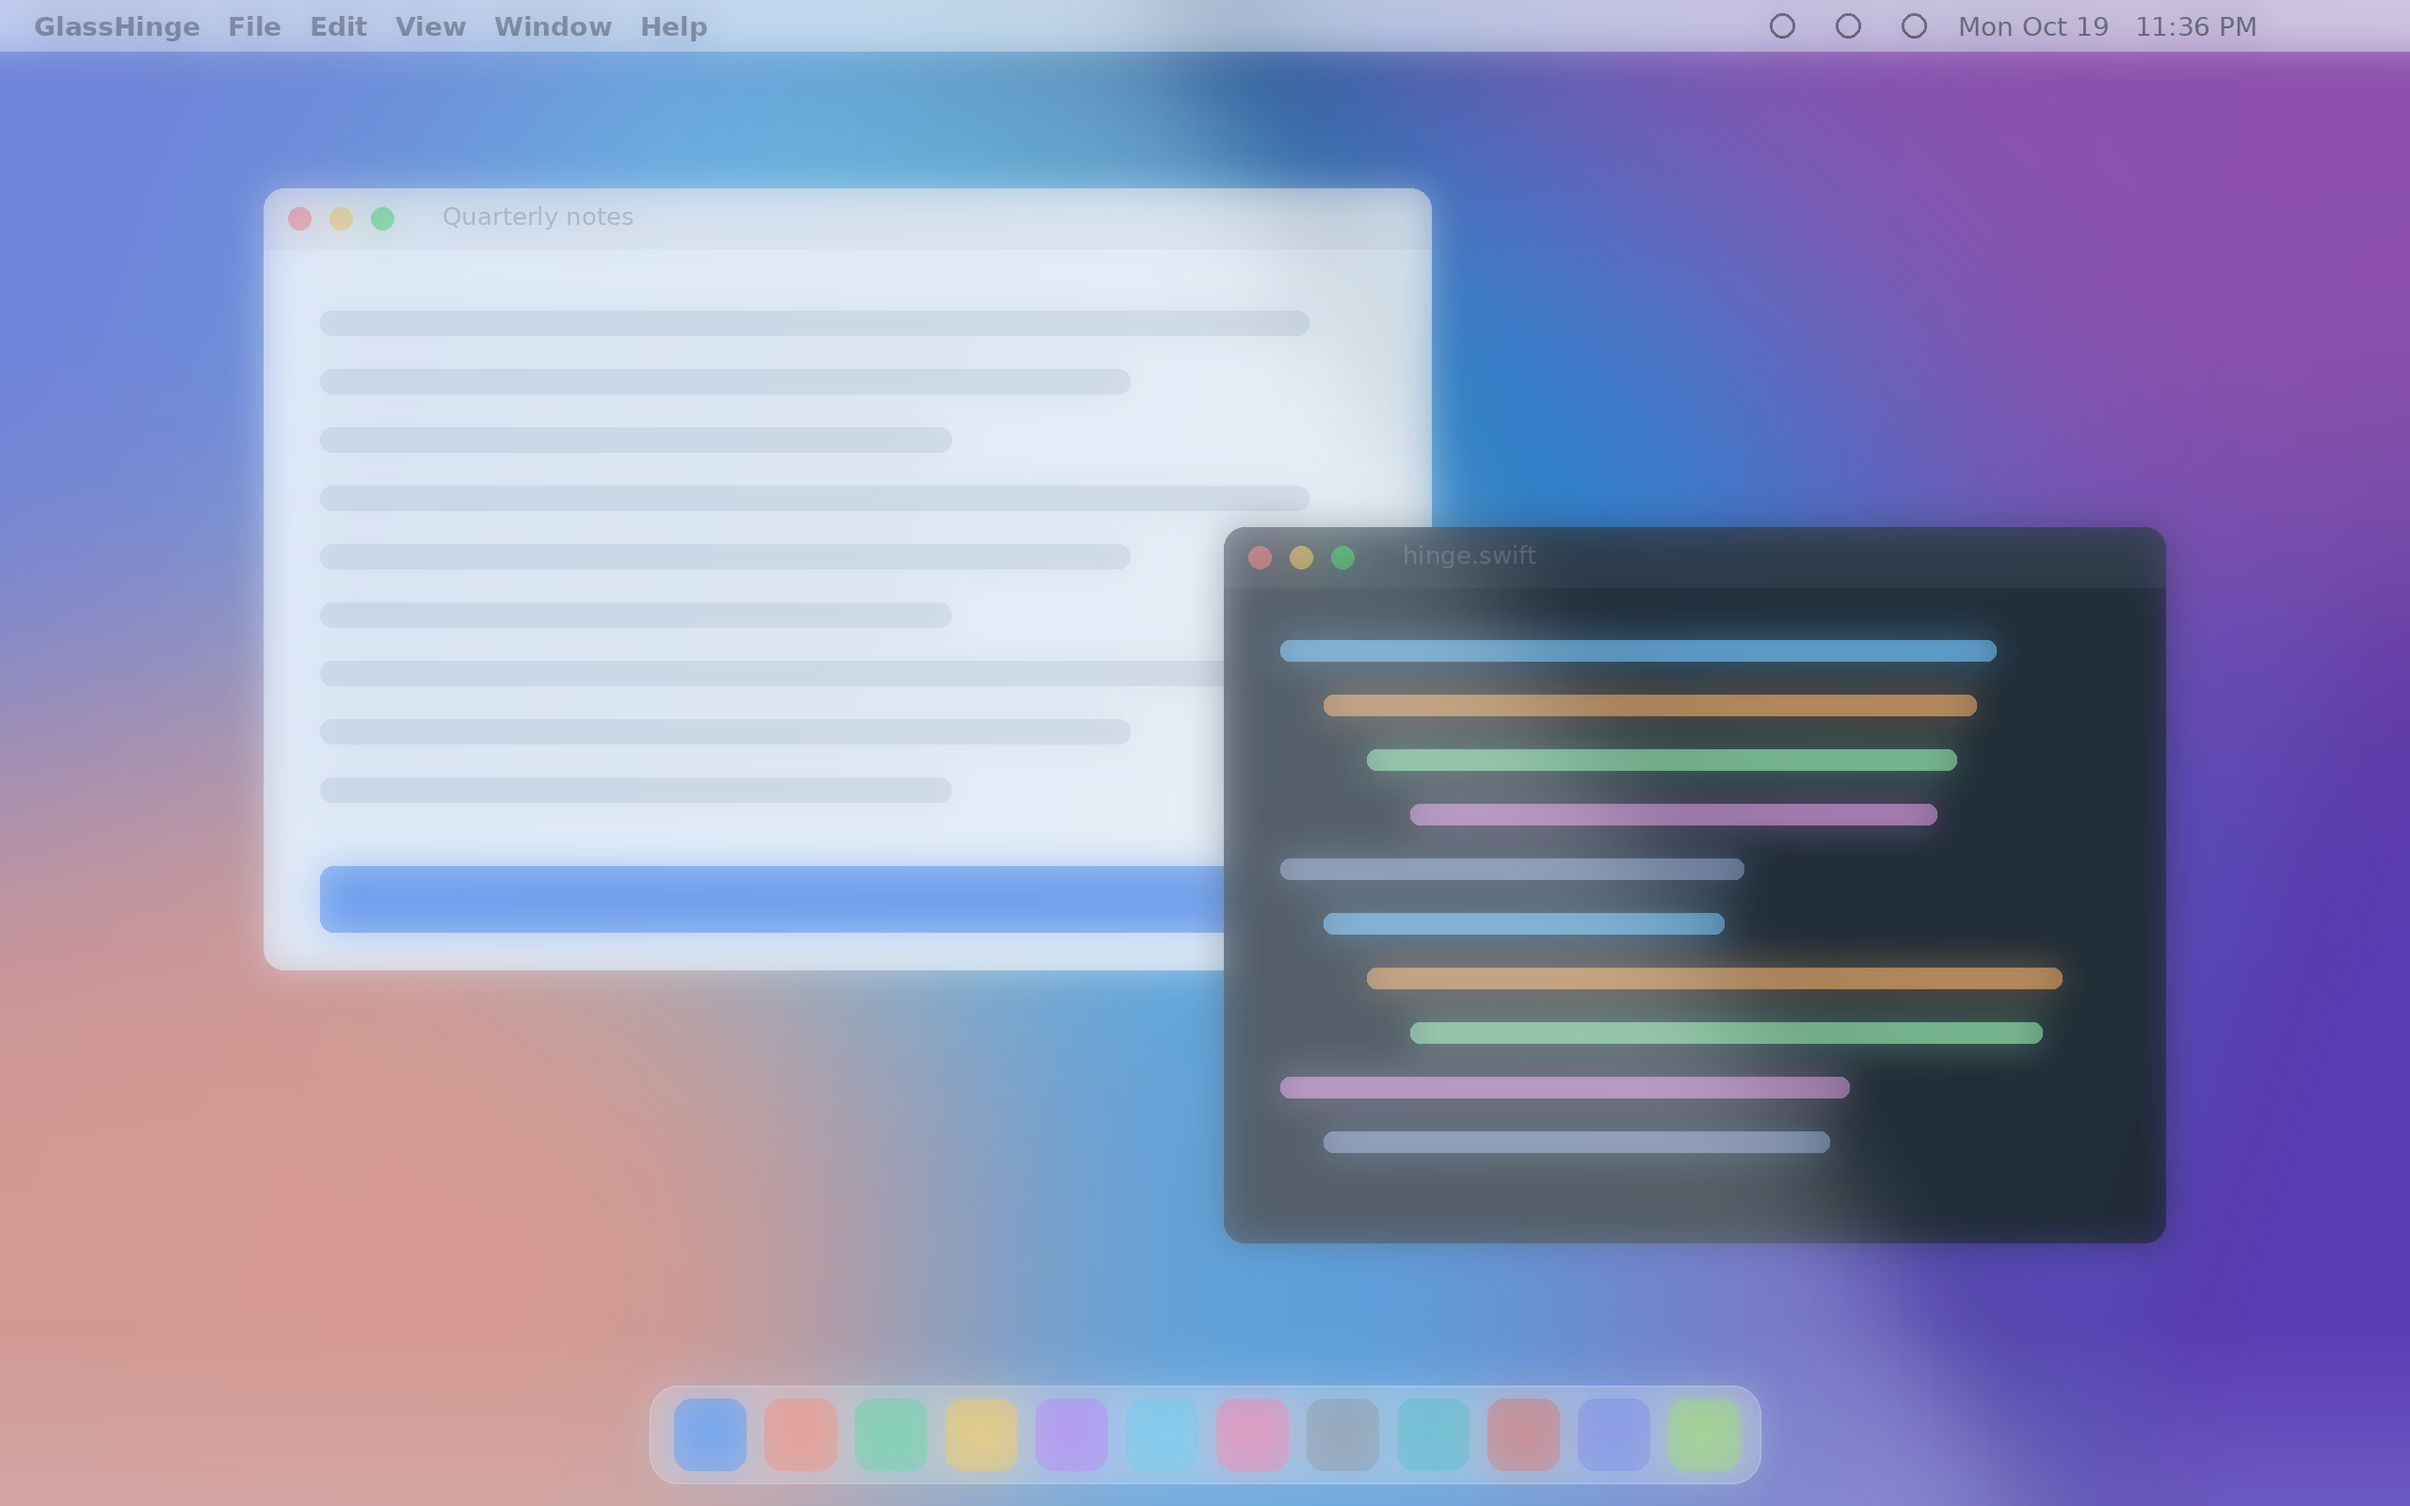
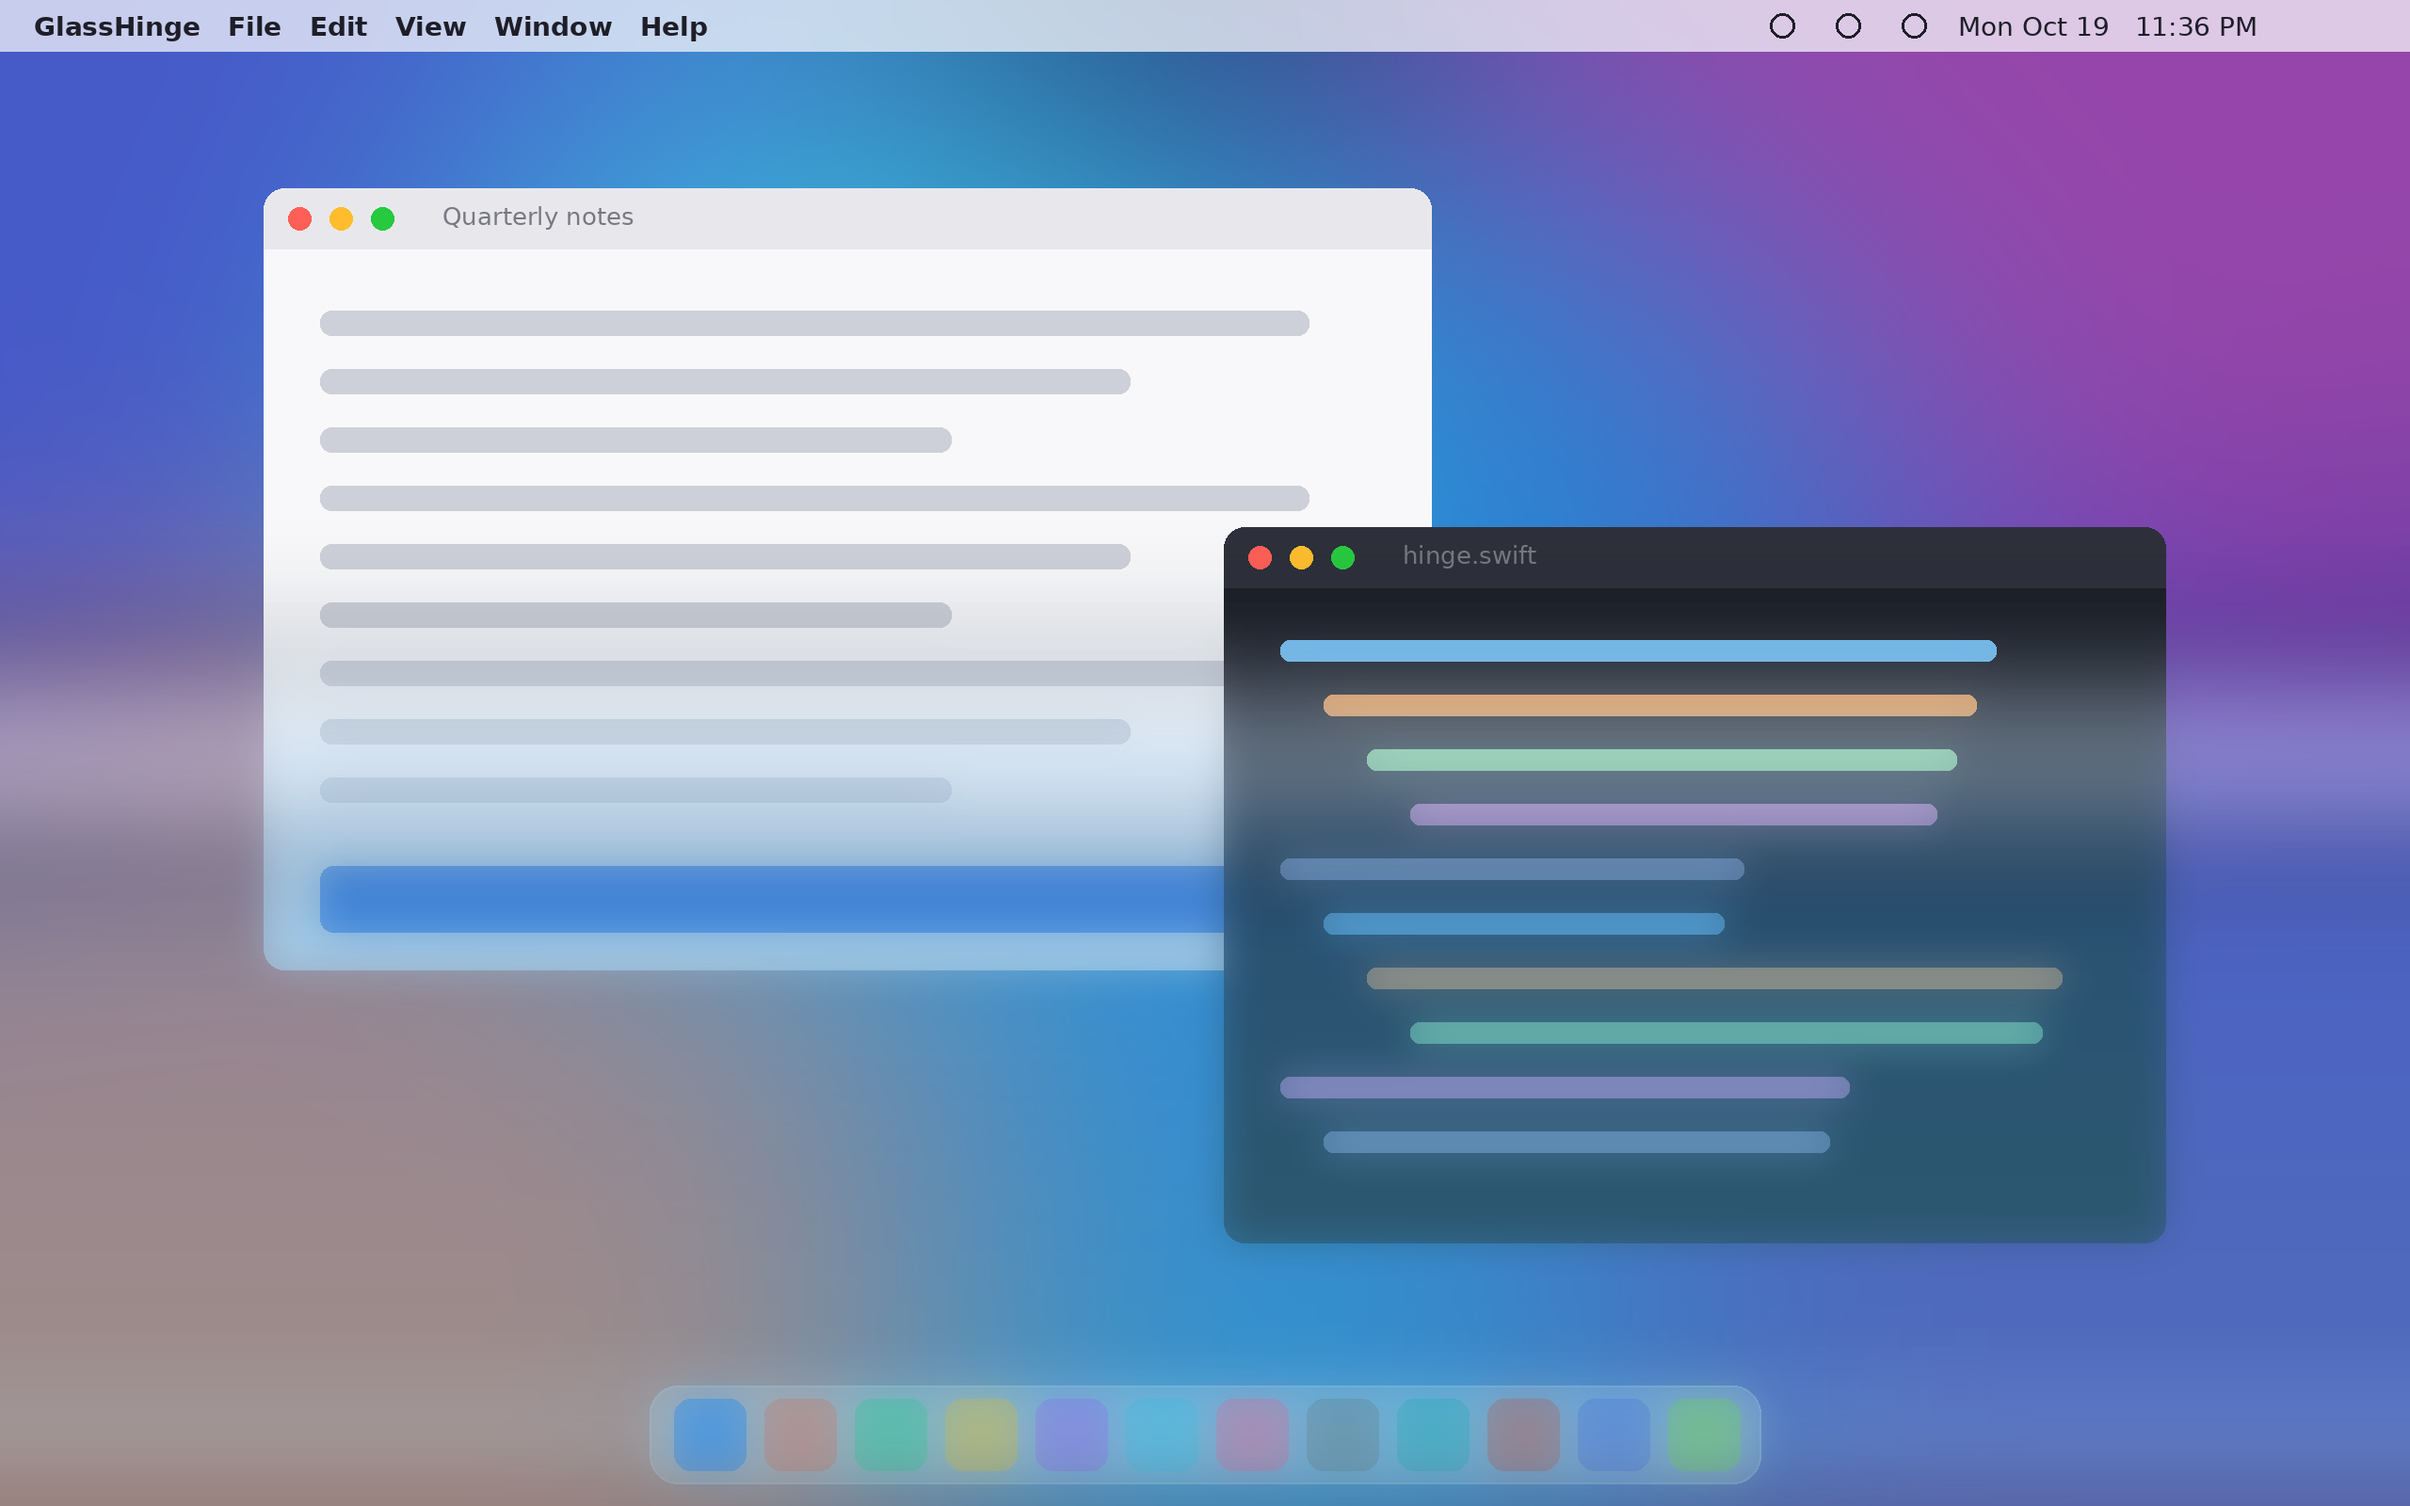
GlassHinge v1.0 — initial commit (menu-bar app, movement-only glass effect, 3 styles, StoreKit Pro scaffold disabled)

diff --git a/GlassHinge/GlassOverlayView.swift b/GlassHinge/GlassOverlayView.swift
@@ -13,17 +13,27 @@
 //  original re-implementation of that idea — no third-party assets, code,
 //  or product names are used anywhere in the app or its store listing.
 //
-//  Rebuilt here with AppKit/SwiftUI primitives only:
+//  Rebuilt here with AppKit/SwiftUI primitives only, and folded the way
+//  a MacBook actually folds: the hinge is the BOTTOM edge of the screen,
+//  so the fold works bottom-up. A fold line starts at the hinge and
+//  rises toward the top as the lid moves. Below the line the desktop is
+//  folded glass (real blur + liquid tint); above it the desktop is still
+//  flat and clear; the crease itself carries a band of light. When the
+//  lid stops, the fold melts back down to the hinge and the screen is
+//  clear again.
 //
 //    * REAL blur of what's underneath — an NSVisualEffectView with
 //      .behindWindow blending, so the user's actual desktop dissolves,
 //      not a fake screenshot. No Screen Recording permission needed.
-//    * A blue/cyan liquid-glass tint whose opacity tracks progress.
-//    * A diagonal "glass shine" band that sweeps across the screen as the
-//      hinge moves — the visible signature of light crossing folding glass.
-//    * A soft vertical refraction streak near the hinge-axis side, plus a
-//      barely-there scale (max +2%) so content feels locked in space
-//      while the "glass" moves over it.
+//      The blur is masked to the folded region below the fold line.
+//    * A blue/cyan liquid-glass tint whose opacity tracks progress,
+//      masked to the same folded region.
+//    * A horizontal crease shine that rides the fold line upward from
+//      the hinge as the lid moves — the visible signature of light
+//      crossing the crease.
+//    * A soft glow along the bottom edge, like light catching the
+//      hinge itself, plus a barely-there scale (max +2%) so content
+//      feels locked in space while the "glass" moves over it.
 //
 //  Everything is a pure function of HingeMonitor.progress, so on sensor
 //  MacBooks the hinge itself scrubs the animation; elsewhere a timed
@@ -40,48 +50,67 @@ struct GlassOverlayView: View {
     @Environment(\.accessibilityReduceMotion) private var reduceMotion
 
     private var style: GlassStyle { GlassStyle(rawValue: styleRaw) ?? .oceanBlue }
-    private var p: Double { monitor.progress * intensity }
+    private var p: Double { min(1, max(0, monitor.progress * intensity)) }
 
     var body: some View {
         GeometryReader { geo in
             let w = geo.size.width
             let h = geo.size.height
+            // The fold line starts at the hinge (bottom edge) and rises
+            // to the top as the lid moves. foldY is its distance from
+            // the top of the screen: h at rest, 0 fully folded.
+            let foldY = h * (1 - p)
+            let band: Double = 90
+            let foldTop = max(0, (foldY - band) / h)
+            let foldBottom = min(1, (foldY + band) / h)
+            // Mask: glass below the fold line, clear above it, with a
+            // soft edge at the crease.
+            let foldMask = LinearGradient(
+                gradient: Gradient(stops: [
+                    .init(color: .clear, location: foldTop),
+                    .init(color: .white, location: foldBottom)
+                ]),
+                startPoint: .top,
+                endPoint: .bottom
+            )
             ZStack {
-                // 1. Real behind-window blur (the dissolve).
+                // 1. Real behind-window blur (the dissolve), folded up
+                //    from the hinge.
                 VisualEffectBlur(material: style.material, blendingMode: .behindWindow)
                     .opacity(p)
+                    .mask(foldMask)
                     .ignoresSafeArea()
 
-                // 2. Liquid-glass tint.
+                // 2. Liquid-glass tint, same fold.
                 LinearGradient(
                     colors: style.tintColors,
-                    startPoint: .topLeading,
-                    endPoint: .bottomTrailing
+                    startPoint: .top,
+                    endPoint: .bottom
                 )
                 .opacity(p * style.tintOpacity)
+                .mask(foldMask)
                 .ignoresSafeArea()
 
-                // 3. Diagonal glass shine sweeping with the hinge.
+                // 3. Crease shine — a horizontal band of light riding
+                //    the fold line as it rises from the hinge.
                 if !reduceMotion {
                     Rectangle()
                         .fill(
                             LinearGradient(
-                                colors: [.clear, .white.opacity(0.55), .clear],
-                                startPoint: .leading,
-                                endPoint: .trailing
+                                colors: [.clear, .white.opacity(0.6), .clear],
+                                startPoint: .top,
+                                endPoint: .bottom
                             )
                         )
-                        .frame(width: w * 0.45, height: h * 1.6)
-                        .rotationEffect(.degrees(18))
-                        .blur(radius: 30)
-                        .offset(x: -w * 0.8 + (w * 1.6 * p))
+                        .frame(width: w, height: 140)
+                        .blur(radius: 24)
+                        .offset(y: foldY - h / 2)
                         .opacity(p)
                         .ignoresSafeArea()
                 }
 
-                // 4. Edge refraction — brighter line low on the screen,
-                //    like light catching the bottom edge of folding glass
-                //    near the MacBook hinge.
+                // 4. Hinge glow — light catching the bottom edge of the
+                //    folding glass at the MacBook hinge.
                 VStack {
                     Spacer()
                     Rectangle()

diff --git a/screenshots/make_mocks.py b/screenshots/make_mocks.py
@@ -1,11 +1,13 @@
 #!/usr/bin/env python3
 """Mock App Store screenshots for GlassHinge (2560x1600).
 
-Faithful mocks of the shipped design: a desktop that gets a REAL Gaussian
-blur blend + blue liquid-glass tint + diagonal shine sweep + bottom hinge
-glow, all driven by one progress value — the same recipe as
-GlassOverlayView.swift. UI shots mirror SettingsView / the menu-bar popover.
-These are mocks for review/marketing, not captures from a running Mac.
+Faithful mocks of the shipped design: a desktop that folds bottom-up
+from the hinge — a fold line rises from the bottom edge, the desktop
+below it dissolves into real Gaussian blur + blue liquid-glass tint, a
+band of light rides the crease, and a glow sits on the hinge — all
+driven by one progress value, the same recipe as GlassOverlayView.swift.
+UI shots mirror SettingsView / the menu-bar popover. These are mocks for
+review/marketing, not captures from a running Mac.
 """
 from PIL import Image, ImageDraw, ImageFilter, ImageFont
 import pathlib, math
@@ -80,27 +82,38 @@ def desktop():
 
 # ---------------------------------------------------------------- effect
 def apply_effect(base, p):
-    """Same recipe as GlassOverlayView: blur blend, tint, shine sweep, hinge glow."""
+    """Same recipe as GlassOverlayView: bottom-up fold from the hinge.
+    The fold line starts at the bottom edge and rises as p grows; below
+    the line the desktop is folded glass (blur + tint), above it clear,
+    with a band of light riding the crease."""
+    foldY = H * (1 - p)
+    band = 180  # soft edge around the crease, px
+    # fold mask: 0 above the crease, 255 below, smooth over the band
+    mask = Image.new("L", (W, H), 0)
+    md = ImageDraw.Draw(mask)
+    for y in range(H):
+        t = (y - (foldY - band)) / (2 * band)
+        t = max(0.0, min(1.0, t))
+        a = int(255 * t * t * (3 - 2 * t))  # smoothstep
+        md.line([(0, y), (W, y)], fill=a)
     blurred = base.filter(ImageFilter.GaussianBlur(4 + 30 * p))
-    img = Image.blend(base, blurred, p * 0.96).convert("RGBA")
-    # liquid-glass tint: blue -> cyan diagonal
+    img = Image.composite(blurred, base, mask.point(lambda v: int(v * p * 0.96))).convert("RGBA")
+    # liquid-glass tint: vertical blue -> cyan, masked to the fold
     tint = Image.new("RGBA", (W, H), (0, 0, 0, 0))
     td = ImageDraw.Draw(tint)
-    steps = 60
+    steps = 80
     for i in range(steps):
         t = i / steps
-        col = (int(40 + 30 * t), int(110 + 60 * t), int(235 - 40 * t), int(105 * p * (1 - t * 0.5)))
-        x0 = int(W * t * 1.2) - 300
-        td.line([(x0, 0), (x0 - 500, H)], fill=col, width=int(W / steps) + 30)
-    img.alpha_composite(tint.filter(ImageFilter.GaussianBlur(60)))
-    # diagonal glass shine sweeping with progress
+        col = (int(40 + 30 * t), int(110 + 60 * t), int(235 - 40 * t), 255)
+        td.line([(0, int(H * t)), (W, int(H * t))], fill=col, width=int(H / steps) + 2)
+    tint.putalpha(mask.point(lambda v: int(v * p * 0.9)))
+    img.alpha_composite(tint.filter(ImageFilter.GaussianBlur(40)))
+    # crease shine: horizontal band of light riding the fold line up
     shine = Image.new("RGBA", (W, H), (0, 0, 0, 0))
     sd = ImageDraw.Draw(shine)
-    cx = -0.8 * W + 1.6 * W * p
-    band = 0.45 * W
-    sd.polygon([(cx - band, H + 200), (cx, -200), (cx + band, -200), (cx + 2 * band, H + 200)],
-               fill=(255, 255, 255, int(120 * p)))
-    img.alpha_composite(shine.filter(ImageFilter.GaussianBlur(70)))
+    sh = 220
+    sd.rectangle([0, foldY - sh / 2, W, foldY + sh / 2], fill=(255, 255, 255, int(150 * p)))
+    img.alpha_composite(shine.filter(ImageFilter.GaussianBlur(60)))
     # hinge glow along the bottom edge
     glow = Image.new("RGBA", (W, H), (0, 0, 0, 0))
     gd = ImageDraw.Draw(glow)
@@ -134,7 +147,7 @@ def section(d, x, y, w, title, rows_h):
 # ---------------------------------------------------------------- shots
 base = desktop()
 apply_effect(base.copy(), 0.5).save(OUT / "01-effect-mid-close.png")
-apply_effect(base.copy(), 1.0).save(OUT / "02-effect-wake-dissolve.png")
+apply_effect(base.copy(), 0.75).save(OUT / "02-effect-wake-dissolve.png")
 
 # Shot 3 — Settings window over the desktop
 img = base.copy()
